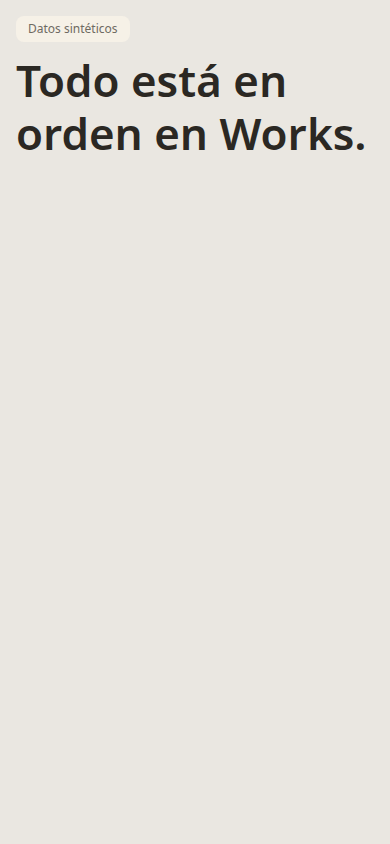
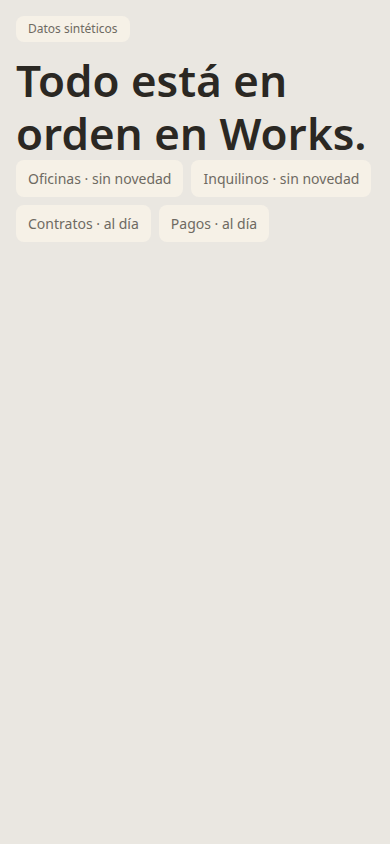
UI-06: indicadores textuales sin KPI dominante
Ajusta las pruebas de UI-04 y UI-05, que verificaban 'ninguna lista'
buscando cualquier ul/ol en la página; con los indicadores (que sí
son una lista y se muestran siempre) esa aserción era demasiado
amplia. Quedan apuntando a la lista de asuntos, que es lo que
realmente debían comprobar.

diff --git a/web/muestras/nivel1.html b/web/muestras/nivel1.html
@@ -8,6 +8,7 @@
     <link rel="stylesheet" href="/estilos/base.css" />
     <link rel="stylesheet" href="/nivel1/nivel1.css" />
     <link rel="stylesheet" href="/nivel2/nivel2.css" />
+    <link rel="stylesheet" href="/indicadores/indicadores.css" />
   </head>
   <body>
     <main id="app"></main>
@@ -15,6 +16,7 @@
       import { obtenerEstado } from "/datos/estado.js";
       import { renderNivel1 } from "/nivel1/nivel1.js";
       import { renderNivel2 } from "/nivel2/nivel2.js";
+      import { renderIndicadores } from "/indicadores/indicadores.js";
 
       const parametros = new URLSearchParams(window.location.search);
       const escenario = parametros.get("escenario") || "tranquilo";
@@ -23,6 +25,7 @@
         const contenedor = document.getElementById("app");
         renderNivel1(contenedor, estado);
         renderNivel2(contenedor, estado);
+        renderIndicadores(contenedor, estado);
       });
     </script>
   </body>

diff --git a/web/indicadores/indicadores.js b/web/indicadores/indicadores.js
@@ -1,0 +1,22 @@
+// Indicadores textuales por área. UI-06.
+// Frases cortas, todas con el mismo estilo y menor jerarquía que la
+// conclusión del nivel 1. Ninguna se marca como principal.
+
+export function renderIndicadores(contenedor, estado) {
+  const anterior = contenedor.querySelector(".indicadores");
+  if (anterior) anterior.remove();
+
+  const lista = document.createElement("ul");
+  lista.className = "indicadores";
+
+  for (const indicador of estado.indicadores) {
+    const item = document.createElement("li");
+    item.className = "indicadores__item";
+    item.dataset.area = indicador.area;
+    item.textContent = indicador.frase_corta;
+    lista.appendChild(item);
+  }
+
+  contenedor.appendChild(lista);
+  return lista;
+}

diff --git a/web/indicadores/indicadores.css b/web/indicadores/indicadores.css
@@ -1,0 +1,25 @@
+/*
+  Indicadores que explican el estado. UI-06.
+
+  Frases cortas por área, con menor jerarquía que la conclusión del
+  nivel 1 y todas con el mismo estilo, para que ninguna domine como
+  si fuera un KPI principal (regla 9 del plan).
+*/
+
+.indicadores {
+  display: flex;
+  flex-wrap: wrap;
+  gap: var(--espacio-2);
+  margin: 0;
+  padding: 0;
+  list-style: none;
+}
+
+.indicadores__item {
+  background: var(--superficie);
+  color: var(--texto-secundario);
+  border-radius: var(--radio-sm);
+  padding: var(--espacio-2) var(--espacio-3);
+  font-size: var(--texto-sm);
+  font-weight: 400;
+}

diff --git a/tests/ui/test_ui06_indicadores.py b/tests/ui/test_ui06_indicadores.py
@@ -1,0 +1,34 @@
+"""UI-06: indicadores textuales sin KPI dominante."""
+
+
+def test_indicadores_menores_que_la_conclusion(servicio_url, page):
+    page.goto(f"{servicio_url}/muestras/nivel1.html?escenario=con_atencion")
+    page.wait_for_selector(".indicadores__item")
+
+    resultado = page.evaluate(
+        """() => {
+            const conclusion = document.querySelector('[data-conclusion]');
+            const tamanoConclusion = parseFloat(getComputedStyle(conclusion).fontSize);
+            const indicadores = document.querySelectorAll('.indicadores__item');
+            const tamanos = [...indicadores].map(
+                el => parseFloat(getComputedStyle(el).fontSize)
+            );
+            return { tamanoConclusion, tamanos };
+        }"""
+    )
+    assert len(resultado["tamanos"]) == 4
+    for tamano in resultado["tamanos"]:
+        assert tamano < resultado["tamanoConclusion"]
+
+
+def test_ningun_indicador_domina(servicio_url, page):
+    page.goto(f"{servicio_url}/muestras/nivel1.html?escenario=con_atencion")
+    page.wait_for_selector(".indicadores__item")
+
+    estilos = page.locator(".indicadores__item").evaluate_all(
+        """els => els.map(el => {
+            const s = getComputedStyle(el);
+            return `${s.fontSize}|${s.fontWeight}|${s.color}`;
+        })"""
+    )
+    assert len(set(estilos)) == 1

diff --git a/tests/ui/test_ui04_nivel1.py b/tests/ui/test_ui04_nivel1.py
@@ -34,10 +34,13 @@ def test_conclusion_tiene_la_mayor_jerarquia(servicio_url, pagina_con_viewport, 
     assert resultado["tamanoConclusion"] == resultado["mayor"]
 
 
-def test_tranquilo_no_muestra_ninguna_lista(servicio_url, page):
+def test_tranquilo_no_muestra_ninguna_lista_de_asuntos(servicio_url, page):
+    # El nivel 1 en sí no agrega listas (eso es nivel 2, UI-05). Los
+    # indicadores de UI-06 son una lista aparte y sí se muestran
+    # siempre; aquí solo se comprueba que no aparezca ningún asunto.
     page.goto(f"{servicio_url}/muestras/nivel1.html?escenario=tranquilo")
     page.wait_for_selector("[data-conclusion]")
-    assert page.locator("ul, ol").count() == 0
+    assert page.locator(".nivel2__asunto").count() == 0
 
 
 @pytest.mark.parametrize("escenario", ESCENARIOS)

diff --git a/tests/ui/test_ui05_nivel2.py b/tests/ui/test_ui05_nivel2.py
@@ -28,7 +28,9 @@ def test_tranquilo_no_renderiza_ningun_asunto(servicio_url, page):
     page.goto(f"{servicio_url}/muestras/nivel1.html?escenario=tranquilo")
     page.wait_for_selector("[data-conclusion]")
     assert page.locator(".nivel2__asunto").count() == 0
-    assert page.locator("ul, ol").count() == 0
+    # La lista de asuntos (.nivel2) no existe; los indicadores de
+    # UI-06 son una lista aparte y sí se muestran siempre.
+    assert page.locator("ul.nivel2").count() == 0
 
 
 def test_ninguna_frase_tiene_fecha_cruda(servicio_url, page):

diff --git a/plan/estado/Builder_UI.md b/plan/estado/Builder_UI.md
@@ -17,7 +17,7 @@ Solo **Builder_UI** escribe en este archivo. Protocolo: `plan/REANUDAR.md`. Deta
 | UI-03 | Componentes neumórficos base | hecha | D-1, UI-01 |
 | UI-04 | Nivel 1: estado general con ejemplos del contrato | hecha | UI-03, DAT-03 |
 | UI-05 | Nivel 2: lo que merece atención | hecha | UI-04 |
-| UI-06 | Indicadores que explican el estado | pendiente | UI-05 |
+| UI-06 | Indicadores que explican el estado | hecha | UI-05 |
 | UI-07 | Conectar niveles 1 y 2 al servicio | pendiente | DAT-08 (D-3), UI-06 |
 | UI-08 | Entrada al detalle bajo demanda | pendiente | UI-05 |
 | UI-09 | Formulario editable y confirmación visible | pendiente | UI-03 |
@@ -32,7 +32,7 @@ Solo **Builder_UI** escribe en este archivo. Protocolo: `plan/REANUDAR.md`. Deta
 
 ## Qué sigue
 
-UI-06, UI-08 y UI-09 están libres (todas sus esperas están hechas).
+UI-08 y UI-09 están libres. UI-07 sigue esperando DAT-08 (D-3), sin commit todavía.
 
 ## Observaciones
 
@@ -54,4 +54,6 @@ Una línea por cambio, solo se agrega al final: `AAAA-MM-DD HH:MM · ID · estad
 - 2026-09-23 05:56 · UI-04 · en curso · nivel 1 con conclusión humana
 - 2026-09-23 06:10 · UI-04 · hecha (2b7c804) · corregí una prueba con carrera (UI-03): test_boton_presionado_cambia_borde_o_color leía el estilo computado antes de que terminara la transición CSS de 0.12s, y fallaba de forma intermitente al correr junto con otras pruebas. Agregué una espera corta. Sigue UI-05 o UI-09.
 - 2026-09-23 06:12 · UI-05 · en curso · nivel 2 con asuntos en lenguaje humano
-- 2026-09-23 06:25 · UI-05 · hecha · sigue UI-06, UI-08 o UI-09
+- 2026-09-23 06:25 · UI-05 · hecha (3f5aa67) · sigue UI-06, UI-08 o UI-09
+- 2026-09-23 06:26 · UI-06 · en curso · indicadores textuales
+- 2026-09-23 06:40 · UI-06 · hecha · ajusté las pruebas de UI-04 y UI-05, que asumían "ninguna lista" como ningún `ul`/`ol` en toda la página; con los indicadores (que sí son una lista y se muestran siempre) esa aserción era demasiado amplia. Las dejé apuntando a lo que de verdad importaba: que no aparezca la lista de asuntos. app/fuentes/cargar.py falló en la corrida completa, pero es de Builder_Datos y no lo toqué. Sigue UI-08 o UI-09; UI-07 sigue esperando DAT-08.
